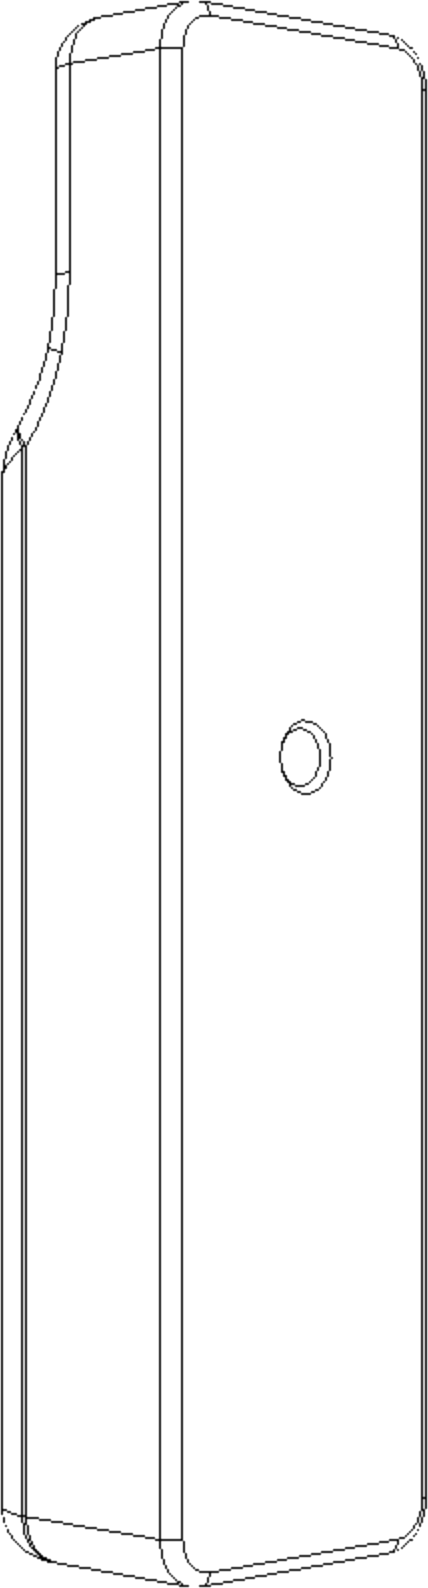
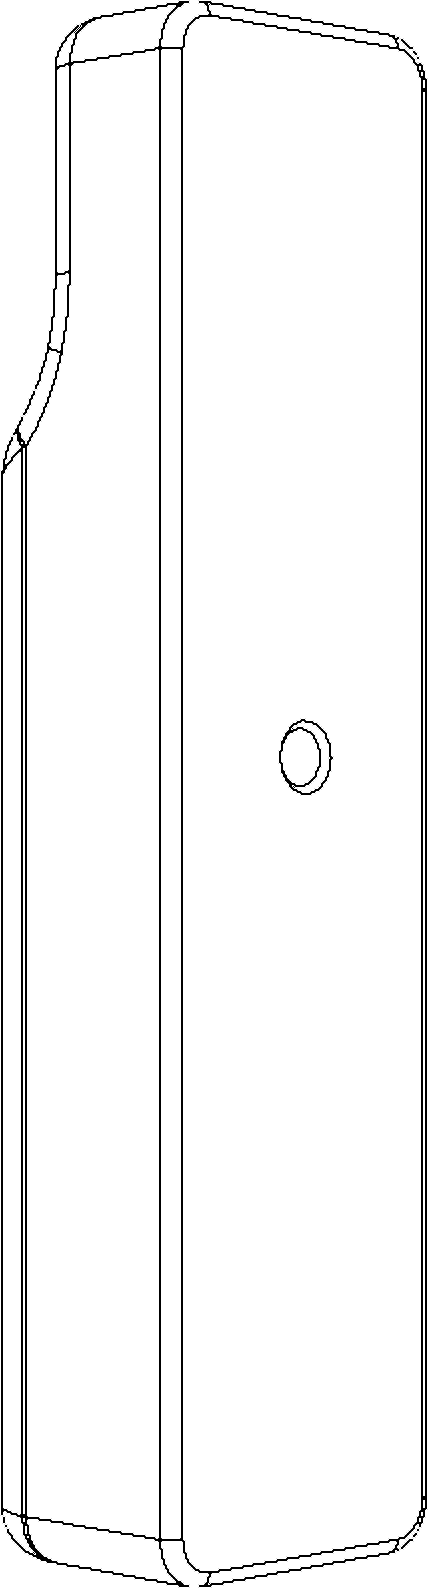
opengl

diff --git a/src/ui/wiimote.py b/src/ui/wiimote.py
@@ -14,6 +14,9 @@ from PySide6.QtCore import (
     QSize
 )
 
+from quilt.layout import VBoxLayout
+from ui.widgets.image import OpenGLImage
+
 
 ACTIVE="resources/images/wiimote/active/"
 INACTIVE="resources/images/wiimote/inactive/"
@@ -26,73 +29,83 @@ class WiimoteWidget(QWidget):
         self.setAttribute(Qt.WA_StyledBackground, True)
         self.setObjectName("wiimote-widget")
 
-        self.pixmaps = {}
+        # self.pixmaps = {}
 
-        self.back = QLabel(self, pixmap=QPixmap("./resources/images/wiimote/back.png"))
-        self.pixmaps[self.back] = self.back.pixmap() 
+        # self.back = QLabel(self, pixmap=QPixmap("./resources/images/wiimote/back.png"))
+        # self.pixmaps[self.back] = self.back.pixmap() 
 
         self.dpad = ["up","down","left","right"]
         self.active = {}
         self.inactive = {}
-        for state, dict_ in ((ACTIVE, self.active), (INACTIVE, self.inactive)):
-            for file in os.listdir(state):
-                pixmap = QPixmap(state+file)
-                label = QLabel(self, pixmap=pixmap)
-                if state == ACTIVE: label.hide()
-                name = file.split(".")[0]
-                dict_[name] = label
-                self.pixmaps[label] = pixmap
+        # for state, dict_ in ((ACTIVE, self.active), (INACTIVE, self.inactive)):
+        #     for file in os.listdir(state):
+        #         pixmap = QPixmap(state+file)
+        #         label = QLabel(self, pixmap=pixmap)
+        #         if state == ACTIVE: label.hide()
+        #         name = file.split(".")[0]
+        #         dict_[name] = label
+        #         self.pixmaps[label] = pixmap
 
-        self.front = QLabel(self, pixmap=QPixmap("./resources/images/wiimote/front.png"))
-        self.pixmaps[self.front] = self.front.pixmap() 
+        # self.front = QLabel(self, pixmap=QPixmap("./resources/images/wiimote/front.png"))
+        # self.pixmaps[self.front] = self.front.pixmap() 
+
+        back = "./resources/images/wiimote/back.png"
+        front = "./resources/images/wiimote/front.png"
+        images = [back]
+        for file in os.listdir(INACTIVE):
+            images.append(INACTIVE+file)
+        images.append(front)
+        self.image = OpenGLImage(self, images)
+        self.padding = 10
+        self.setLayout(VBoxLayout([self.image], contents_margins=(self.padding,self.padding,self.padding,self.padding)))
+
 
         self._leds = [0,0,0,0]
         self.leds = [1,1,0,0]
 
-        self.update_image_sizes()
 
     def resizeEvent(self, event):
-        self.update_image_sizes()
+        self.setFixedWidth(self.image.width()+self.padding*2)
         super().resizeEvent(event)
-
-    def update_image_sizes(self):
-        height = self.height()  
-
-        for label, pixmap in self.pixmaps.items():
-            scaled = pixmap.scaledToHeight(height, Qt.SmoothTransformation)
-            label.setPixmap(scaled)
-            label.resize(scaled.size())
-
-        new_width = self.back.width()+ 40
-        self.resize(new_width, height)
-
-        for label in self.pixmaps.keys():
-            label.move((new_width - label.width())//2, 0)
-
-    def activate(self, name):
-        print("ACTIVATE ", name)
-        if name in self.dpad:
-            self.inactive["dpad"].setVisible(False)
-            for d in self.dpad:
-                self.active[d].setVisible(False)
-        else:
-            self.inactive[name].setVisible(False)
-        self.active[name].setVisible(True)
-    
-    def deactivate(self, name):
-        if name in self.dpad:
-            self.inactive["dpad"].setVisible(True)
-        else:
-            self.inactive[name].setVisible(True)
-        self.active[name].setVisible(False)
-    
-    @property
-    def leds(self):
-        return self._leds
-    
-    @leds.setter
-    def leds(self, l:list):
-        for i, state in enumerate(l):
-            led = f"led{i+1}"
-            self.activate(led) if state == 1 else self.deactivate(led)
-        self._leds = l
+    #
+    # def update_image_sizes(self):
+    #     height = self.height()  
+    #
+    #     # for label, pixmap in self.pixmaps.items():
+    #     #     scaled = pixmap.scaledToHeight(height, Qt.SmoothTransformation)
+    #     #     label.setPixmap(scaled)
+    #     #     label.resize(scaled.size())
+    #     #
+    #     # new_width = self.back.width()+ 40
+    #     # self.resize(new_width, height)
+    #     #
+    #     # for label in self.pixmaps.keys():
+    #     #     label.move((new_width - label.width())//2, 0)
+    #
+    # def activate(self, name):
+    #     print("ACTIVATE ", name)
+    #     if name in self.dpad:
+    #         self.inactive["dpad"].setVisible(False)
+    #         for d in self.dpad:
+    #             self.active[d].setVisible(False)
+    #     else:
+    #         self.inactive[name].setVisible(False)
+    #     self.active[name].setVisible(True)
+    #
+    # def deactivate(self, name):
+    #     if name in self.dpad:
+    #         self.inactive["dpad"].setVisible(True)
+    #     else:
+    #         self.inactive[name].setVisible(True)
+    #     self.active[name].setVisible(False)
+    #
+    # @property
+    # def leds(self):
+    #     return self._leds
+    #
+    # @leds.setter
+    # def leds(self, l:list):
+    #     for i, state in enumerate(l):
+    #         led = f"led{i+1}"
+    #         self.activate(led) if state == 1 else self.deactivate(led)
+    #     self._leds = l

diff --git a/src/ui/widgets/image.py b/src/ui/widgets/image.py
@@ -1,0 +1,101 @@
+
+import os
+import sys
+from PySide6.QtWidgets import QApplication, QMainWindow, QWidget
+from PySide6.QtOpenGLWidgets import QOpenGLWidget
+from PySide6.QtOpenGL import QOpenGLTexture
+from PySide6.QtGui import QImage
+from PySide6.QtCore import Qt
+from OpenGL.GL import *
+from PIL import Image
+
+
+class OpenGLImage(QOpenGLWidget):
+    def __init__(self, parent, image_path):
+        super().__init__(parent=parent)
+        # self.image_path = image_path
+        self.texture = None
+
+        images = [Image.open(path) for path in image_path]
+
+        base_image = images[0].copy()
+
+        for image in images[1:]:
+            base_image.paste(image, (0,0), image)
+
+        base_image.save("temp.png")
+        self.image_path = "temp.png"
+
+        # Load image and calculate aspect ratio
+        with Image.open(self.image_path) as img:
+            self.aspect_ratio_width = img.width
+            self.aspect_ratio_height = img.height
+        self.aspect_ratio = self.aspect_ratio_width / self.aspect_ratio_height
+
+        # self.setAttribute(Qt.WA_OpaquePaintEvent, False)  # Make widget background transparent
+        # self.setAutoFillBackground(False)  # Disable Qt's background painting
+
+
+    def initializeGL(self):
+        glClearColor(1,1,1,1)
+        glEnable(GL_TEXTURE_2D)
+
+        image = QImage(self.image_path).convertToFormat(QImage.Format_RGBA8888)
+        self.texture = QOpenGLTexture(image)
+        self.texture.setMinificationFilter(QOpenGLTexture.Nearest)
+        self.texture.setMagnificationFilter(QOpenGLTexture.Nearest)
+        self.texture.setWrapMode(QOpenGLTexture.ClampToEdge)
+
+    def resizeGL(self, w, h):
+        # Set the OpenGL viewport to match the new size
+        # new_height = int(w / self.aspect_ratio)
+        # Set the widget's height to match the aspect ratio, while keeping the width fixed
+        # self.setFixedWidth(new_height)
+        self.setFixedWidth(self.image_width)
+        glViewport(0, 0, w, h)
+
+    def paintGL(self):
+        glClear(GL_COLOR_BUFFER_BIT)
+
+        if self.texture:
+            self.texture.bind()
+
+            # Get widget's width and height
+            width = self.width()
+            height = self.height()
+            
+            # Calculate the aspect ratio of the widget
+            aspect_ratio = width / height
+
+            # Adjust coordinates based on the aspect ratio
+            # if aspect_ratio > self.aspect_ratio:
+            #     # If widget is wider than the image, adjust height
+            #     new_height = height
+            #     new_width = int(new_height * self.aspect_ratio)
+            #     x_offset = (width - new_width) / 2.0
+            #     y_offset = 0
+            # else:
+            #     # If widget is taller than the image, adjust width
+            #     new_width = width
+            #     new_height = int(new_width / self.aspect_ratio)
+            #     x_offset = 0
+            #     y_offset = (height - new_height) / 2.0
+
+            new_height = height
+            new_width = int(new_height * self.aspect_ratio)
+            x_offset = (width - new_width) / 2.0
+            y_offset = 0
+
+            self.image_width = new_width
+
+            # Scale the image into the normalized OpenGL coordinates
+            glBegin(GL_QUADS)
+            glTexCoord2f(0, 1); glVertex2f(x_offset / width * 2 - 1, y_offset / height * 2 - 1)
+            glTexCoord2f(1, 1); glVertex2f((x_offset + new_width) / width * 2 - 1, y_offset / height * 2 - 1)
+            glTexCoord2f(1, 0); glVertex2f((x_offset + new_width) / width * 2 - 1, (y_offset + new_height) / height * 2 - 1)
+            glTexCoord2f(0, 0); glVertex2f(x_offset / width * 2 - 1, (y_offset + new_height) / height * 2 - 1)
+            glEnd()
+
+            self.texture.release()
+
+

diff --git a/src/ui/widgets/dropdown.py b/src/ui/widgets/dropdown.py
@@ -1,28 +1,66 @@
 from PySide6.QtWidgets import (
+    QLabel,
     QPushButton,
+    QVBoxLayout,
     QWidget
 )
 from PySide6.QtCore import (
-    Qt
+    QPoint,
+    Qt,
+    QEvent
 )
 
 
-class Widget(QWidget):
-    def __init__(self, dropdown):
-        super().__init__()
+class Widget(QLabel):
+    def __init__(self, window, dropdown):
+        super().__init__(window)
         self.dropdown = dropdown
-        self.setWindowFlag(Qt.FramelessWindowHint | Qt.WindowStaysOnTopHint)
+        # self.setWindowFlag(Qt.FramelessWindowHint | Qt.WindowStaysOnTopHint)
+
+    def event(self, event: QEvent, /) -> bool:
+        if event.type() == QEvent.WindowDeactivate:
+            self.hide()
+        return super().event(event)
 
     def activate(self):
-        self.setFixedWidth(self.dropdown.width())
-        self.show()
+        self.setFixedSize(self.dropdown.width(), 100)
+        # self.show()
+        self.resize(100,100)
         self.raise_()
-        self.move(self.dropdown.mapToGlobal(self.dropdown.rect().bottomLeft()))
+        self.setVisible(True)
+        self.move(self.dropdown.mapTo(self.window(), self.dropdown.rect().bottomLeft()))
 
 
-class DropDown(QPushButton):
+class DropDown_(QPushButton):
     def __init__(self, text="Button"):
         super().__init__(text)
-        self.widget = Widget(self)
-        self.clicked.connect(self.widget.activate)
+        # self.widget = Widget(self)
+
+        popover = Widget(self.window(), self)
+        popover.setStyleSheet("background-color: black;")
+        popover.hide()
+
+        self.clicked.connect(popover.activate)
+
+class DropDown(QWidget):
+    def __init__(self, parent, button):
+        super().__init__(parent, Qt.Window | Qt.FramelessWindowHint)  
+        self.button = button
+        self.setAttribute(Qt.WA_TranslucentBackground)  
+        self.setStyleSheet("background: white; border: 1px solid black; padding: 5px;")
+        
+        layout = QVBoxLayout(self)
+        layout.addWidget(QLabel("Option 1"))
+        layout.addWidget(QLabel("Option 2"))
+        layout.addWidget(QLabel("Option 3"))
+        self.setLayout(layout)
+        
+    def showDropdown(self):
+        parent_pos = self.button.mapToGlobal(QPoint(0, self.button.height()))
+        self.move(parent_pos)
+        self.raise_()
+        self.show()
+
+    def focusOutEvent(self, event):
+        self.hide()
 

diff --git a/src/ui/main_window.py b/src/ui/main_window.py
@@ -120,8 +120,8 @@ class MainWindow(MainCustomWindow):
         super().__init__()
 
         self.wiimote_widget = WiimoteWidget()
-        self.wiiid = WiiiD(self, self.wiimote_widget)
-        self.interface()
+        # self.wiiid = WiiiD(self, self.wiimote_widget)
+        # self.interface()
 
         self.setTransparentWindow(True)
         self.setFloatingWindow(True)
@@ -142,7 +142,7 @@ class MainWindow(MainCustomWindow):
             self.wiimote_widget,
             status_bar
         ]))
-        QTimer.singleShot(1, lambda: self.wiimote_section.setFixedWidth(self.wiimote_widget.width()))
+        # QTimer.singleShot(1, lambda: self.wiimote_section.setFixedWidth(self.wiimote_widget.width()))
 
         self.mapping_widget = Mapping(self)
 

diff --git a/src/ui/mapping.py b/src/ui/mapping.py
@@ -1,4 +1,5 @@
 from PySide6.QtWidgets import (
+    QPushButton,
     QWidget,
 )
 from PySide6.QtCore import (
@@ -14,11 +15,14 @@ class ToolBar(QWidget):
         super().__init__(parent)
         self.parent = parent
 
-        self.dropdown = DropDown()
 
+        self.button = QPushButton("Mappings", self)
+        self.dropdown = DropDown(self, self.button)
+        self.button.clicked.connect(self.dropdown.showDropdown)
         self.setLayout(HBoxLayout([
-            self.dropdown
+            self.button
         ]))
+
 
 
 class Mapping(QWidget):

diff --git a/src/main.py b/src/main.py
@@ -5,10 +5,13 @@ import os
 # sys.path.append(os.path.dirname(__file__))
 
 from PySide6.QtWidgets import QApplication
+from PySide6.QtCore import Qt
 from ui.main_window import MainWindow
 # from wiimote.interface import WiiiD
 from ui.menus.pie import PieMenu
 from quilt.debug import HotReload
+
+QApplication.setHighDpiScaleFactorRoundingPolicy(Qt.HighDpiScaleFactorRoundingPolicy.PassThrough)
 
 def main():
     app = QApplication([])
